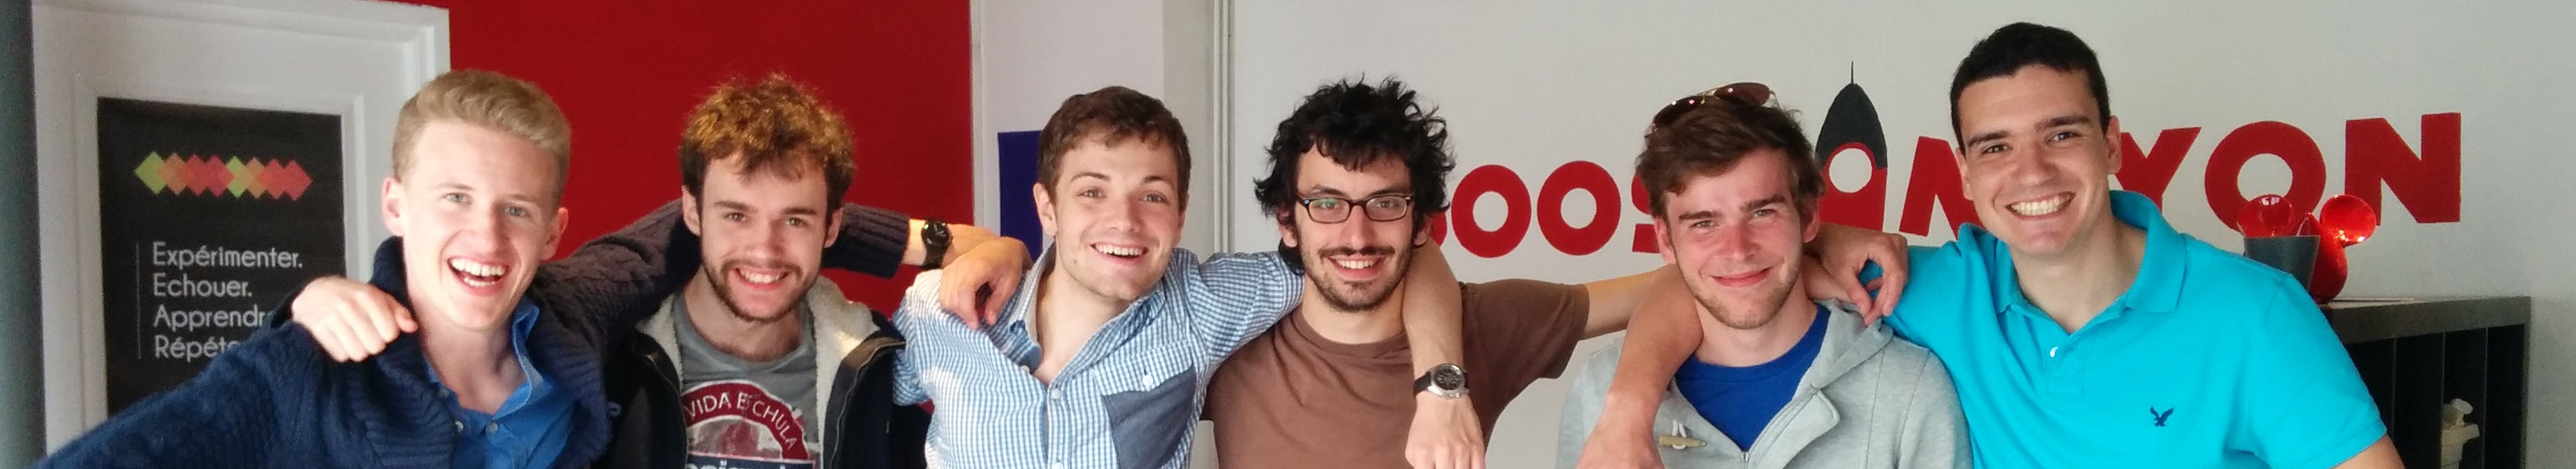
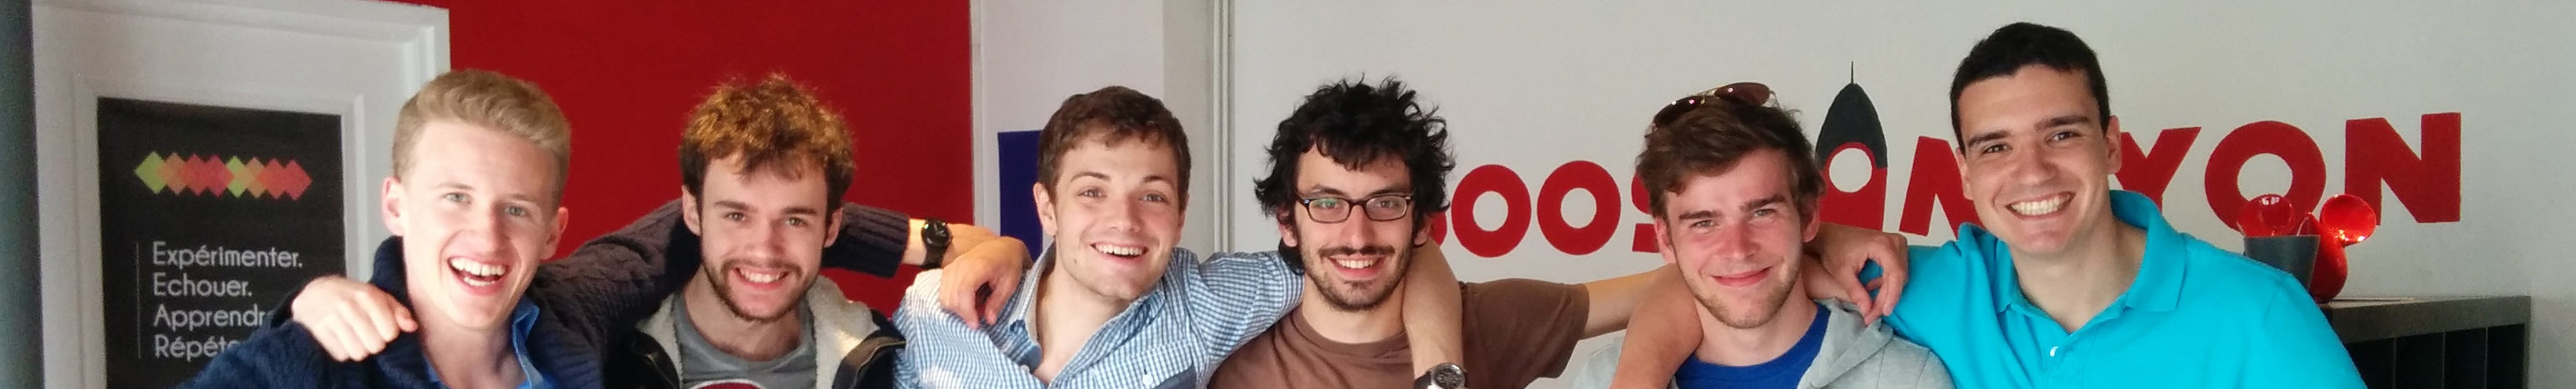
retour alexis

diff --git a/about-us.html b/about-us.html
@@ -7,58 +7,56 @@ layout: main
 <div class="container content">
 
 		<div class="row">
-			<div class="col-lg-12">
-				<h2>Our team</h2>
-				<hr>
-					<div class="col-lg-3">
-						<div class="thumbnail-portrait">
-						<img class="portrait" src="images/mehdi-haut.jpg">
-							<div class="caption">
-								<h4>Mehdi Bouheddi</h4>
-								<p>CEO</p>
-								<p><a target="_blank" href="mailto:mehdi@anyfetch.com">mehdi@anyfetch.com</a></p>
-									<a target="_blank" href="https://github.com/Boudedi" class="profile-link"><i class="fa fa-github fa-2x"></i></a>
-									<a target="_blank" href="https://www.linkedin.com/profile/view?id=69893214" class="profile-link"><i class="fa fa-linkedin-square fa-2x"></i></a>
-							</div>
+			<h2>Our team</h2>
+			<hr>
+				<div class="col-md-3 col-sm-6">
+					<div class="thumbnail-portrait">
+					<img class="portrait" src="images/mehdi-haut.jpg">
+						<div class="caption">
+							<h4>Mehdi Bouheddi</h4>
+							<p>CEO</p>
+							<p><a target="_blank" href="mailto:mehdi@anyfetch.com">mehdi@anyfetch.com</a></p>
+								<a target="_blank" href="https://github.com/Boudedi" class="profile-link"><i class="fa fa-github fa-2x"></i></a>
+								<a target="_blank" href="https://www.linkedin.com/profile/view?id=69893214" class="profile-link"><i class="fa fa-linkedin-square fa-2x"></i></a>
 						</div>
 					</div>
-					<div class="col-lg-3">
-						<div class="thumbnail-portrait">
-						<img class="portrait" src="images/matthieu-haut.jpg">
-							<div class="caption">
-								<h4>Matthieu Bacconnier</h4>
-								<p>CTO</p>
-								<p><a target="_blank" href="mailto:matthieu@anyfetch.com">matthieu@anyfetch.com</a></p>
-									<a target="_blank" href="https://github.com/Neamar" class="profile-link"><i class="fa fa-github fa-2x"></i></a>
-									<a target="_blank" href="https://www.linkedin.com/profile/view?id=246055775" class="profile-link"><i class="fa fa-linkedin-square fa-2x"></i></a>
-							</div>
+				</div>
+				<div class="col-md-3 col-sm-6">
+					<div class="thumbnail-portrait">
+					<img class="portrait" src="images/matthieu-haut.jpg">
+						<div class="caption">
+							<h4>Matthieu Bacconnier</h4>
+							<p>CTO</p>
+							<p><a target="_blank" href="mailto:matthieu@anyfetch.com">matthieu@anyfetch.com</a></p>
+								<a target="_blank" href="https://github.com/Neamar" class="profile-link"><i class="fa fa-github fa-2x"></i></a>
+								<a target="_blank" href="https://www.linkedin.com/profile/view?id=246055775" class="profile-link"><i class="fa fa-linkedin-square fa-2x"></i></a>
 						</div>
 					</div>
-					<div class="col-lg-3">
-						<div class="thumbnail-portrait">
-						<img class="portrait" src="images/hugo-haut.jpg">
-							<div class="caption">
-								<h4>Hugo Duroux</h4>
-								<p>Backend</p>
-								<p><a target="_blank" href="mailto:hugodouroux@anyfetch.com">hugoduroux@anyfetch.com</a></p>
-									<a target="_blank" href="https://github.com/Amoki" class="profile-link"><i class="fa fa-github fa-2x"></i></a>
-									<a target="_blank" href="https://www.linkedin.com/profile/view?id=234443594" class="profile-link"><i class="fa fa-linkedin-square fa-2x"></i></a>
-							</div>
+				</div>
+				<div class="col-md-3 col-sm-6">
+					<div class="thumbnail-portrait">
+					<img class="portrait" src="images/hugo-haut.jpg">
+						<div class="caption">
+							<h4>Hugo Duroux</h4>
+							<p>Backend</p>
+							<p><a target="_blank" href="mailto:hugodouroux@anyfetch.com">hugoduroux@anyfetch.com</a></p>
+								<a target="_blank" href="https://github.com/Amoki" class="profile-link"><i class="fa fa-github fa-2x"></i></a>
+								<a target="_blank" href="https://www.linkedin.com/profile/view?id=234443594" class="profile-link"><i class="fa fa-linkedin-square fa-2x"></i></a>
 						</div>
 					</div>
-					<div class="col-lg-3">
-						<div class="thumbnail-portrait">
-						<img class="portrait" src="images/tanguy-haut.jpg">
-							<div class="caption">
-								<h4>Tanguy Hélesbeux</h4>
-								<p>Product</p>
-								<p><a target="_blank" href="mailto:tanguy.helesbeux@anyfetch.com">tanguy.helesbeux@anyfetch.com</a></p>
-									<a target="_blank" href="https://github.com/Tgy31" class="profile-link"><i class="fa fa-github fa-2x"></i></a>
-									<a target="_blank" href="https://www.linkedin.com/profile/view?id=272642841" class="profile-link"><i class="fa fa-linkedin-square fa-2x"></i></a>
-							</div>
+				</div>
+				<div class="col-md-3 col-sm-6">
+					<div class="thumbnail-portrait">
+					<img class="portrait" src="images/tanguy-haut.jpg">
+						<div class="caption">
+							<h4>Tanguy Hélesbeux</h4>
+							<p>Product</p>
+							<p><a target="_blank" href="mailto:tanguy.helesbeux@anyfetch.com">tanguy.helesbeux@anyfetch.com</a></p>
+								<a target="_blank" href="https://github.com/Tgy31" class="profile-link"><i class="fa fa-github fa-2x"></i></a>
+								<a target="_blank" href="https://www.linkedin.com/profile/view?id=272642841" class="profile-link"><i class="fa fa-linkedin-square fa-2x"></i></a>
 						</div>
 					</div>
-			</div>
+				</div>
 		</div>
 
 		<div class="row">
@@ -79,8 +77,8 @@ layout: main
 
 		<div class="row">
 			<div class="col-lg-12">
-				<img class="team" src="images/team.jpg" />
 			</div>
 		</div>
 
 </div>
+				<img class="team" src="images/team.jpg" />

diff --git a/styles/style.css b/styles/style.css
@@ -364,10 +364,9 @@ p {
 }
 
 .team {
-	max-width: 100%;
+	width: 100%;
 	max-height: 250px;
-	border-radius: 6px;
-	margin-bottom: 50px;
+	margin-top: 50px;
 }
 
 .jumbotron h1, .jumbotron .h1 {
@@ -423,7 +422,7 @@ a.list-group-item:hover {
 }
 
 .thumbnail-portrait {
-	padding: 20px;
+	padding: 15px;
 	text-align: center;
 }
 

diff --git a/how-it-works.html b/how-it-works.html
@@ -62,7 +62,6 @@ layout: main
 
 		<div class="row">
 			<div class="col-lg-8 col-lg-offset-1 col-sm-push-3  col-sm-9">
-				<hr class="section-heading-spacer">
 				<div class="clearfix"></div>
 				<h3>Security</h3>
 				<p class="lead">Security is of the uttermost importance to us, as it is to you.</p>

diff --git a/_layouts/main.html b/_layouts/main.html
@@ -94,6 +94,7 @@
 						<li><a href="/">AnyFetch</a></li>
 						<li><a href="/use-cases.html">Use Cases</a></li>
 						<li><a href="/how-it-works.html">How it works</a></li>
+						<li><a href="/enterprise.html">Enterprise</a></li>
 					</ul>
 				</div>
 				<div class="col-xs-4col-sm-2">
